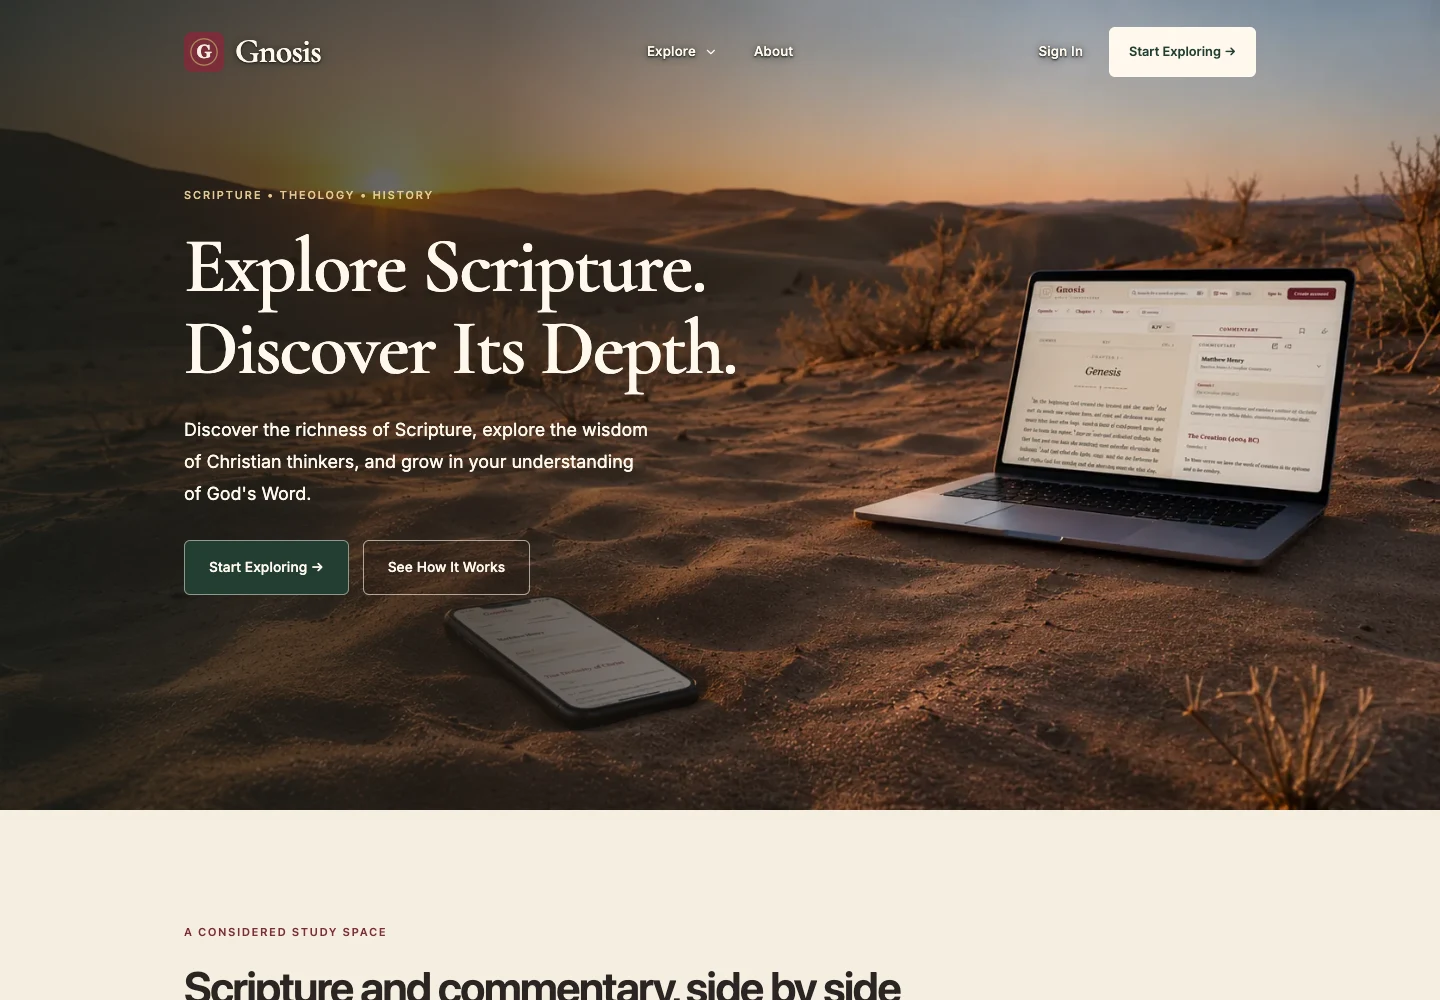
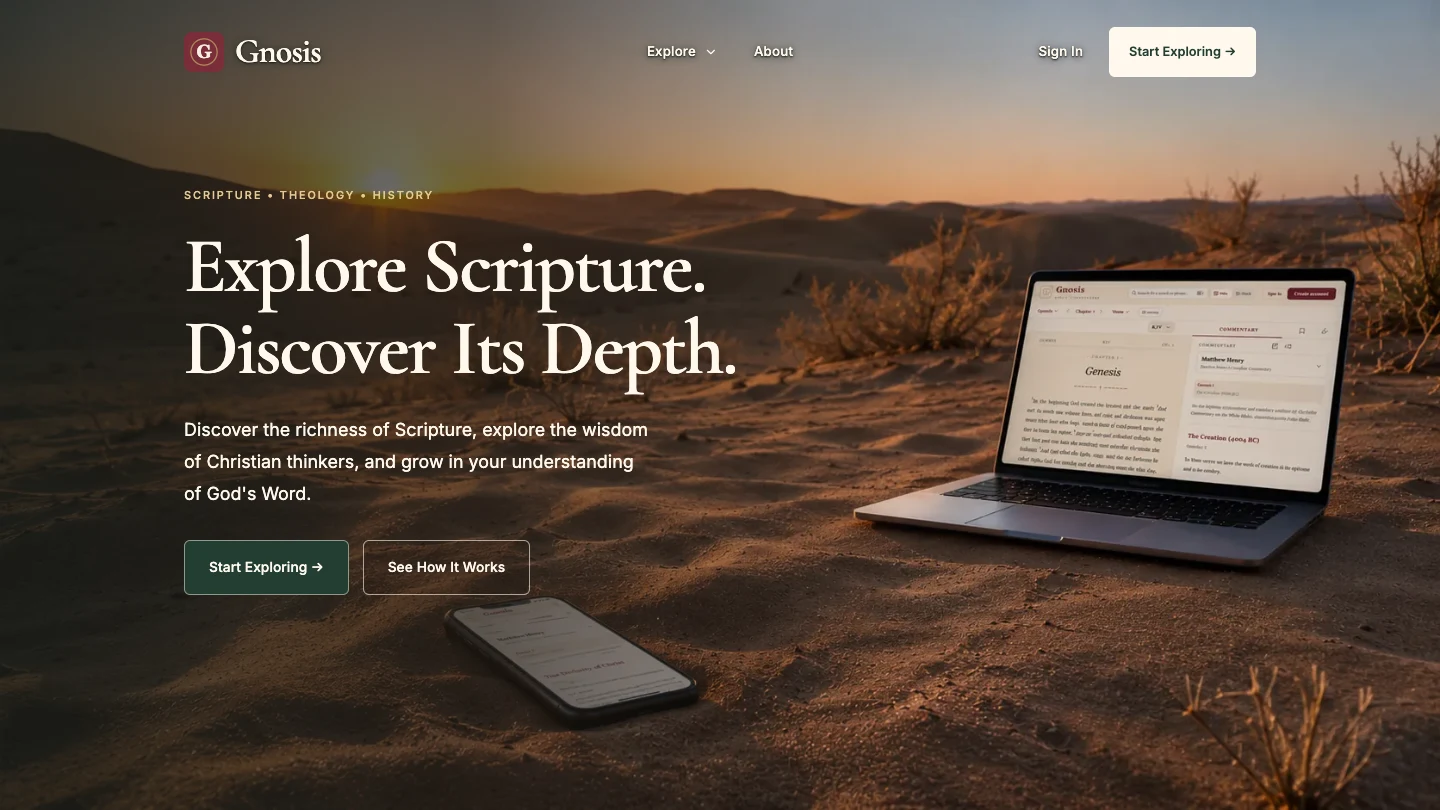
docs: tighten hero framing for GitHub presentation

diff --git a/README.md b/README.md
@@ -105,7 +105,7 @@ This is a public, view-only portfolio repository. Application development and pr
 
 The visuals reuse existing Gnosis assets:
 
-- `hero.webp`: the signed-out landing-page screenshot, converted to WebP. The page includes the owner's existing generated sunset artwork.
+- `hero.webp`: the signed-out landing-page screenshot, cropped to its hero section and converted to WebP. The page includes the owner's existing generated sunset artwork.
 - `scripture-reader.webp`: the owner-supplied Genesis 1 desktop capture, with browser chrome removed and a proportional WebP export.
 - `mobile.webp`: the existing WebP delivery copy of the owner-supplied John 1 mobile capture, reused without re-encoding.
 
